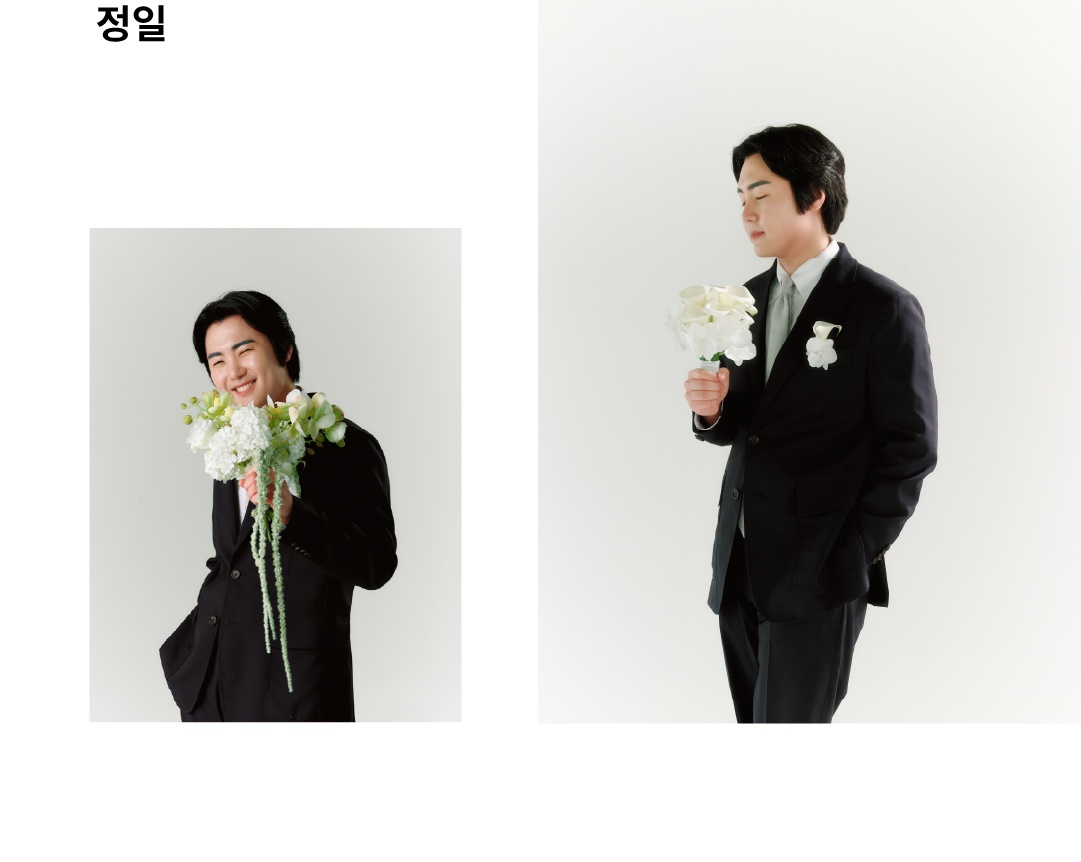
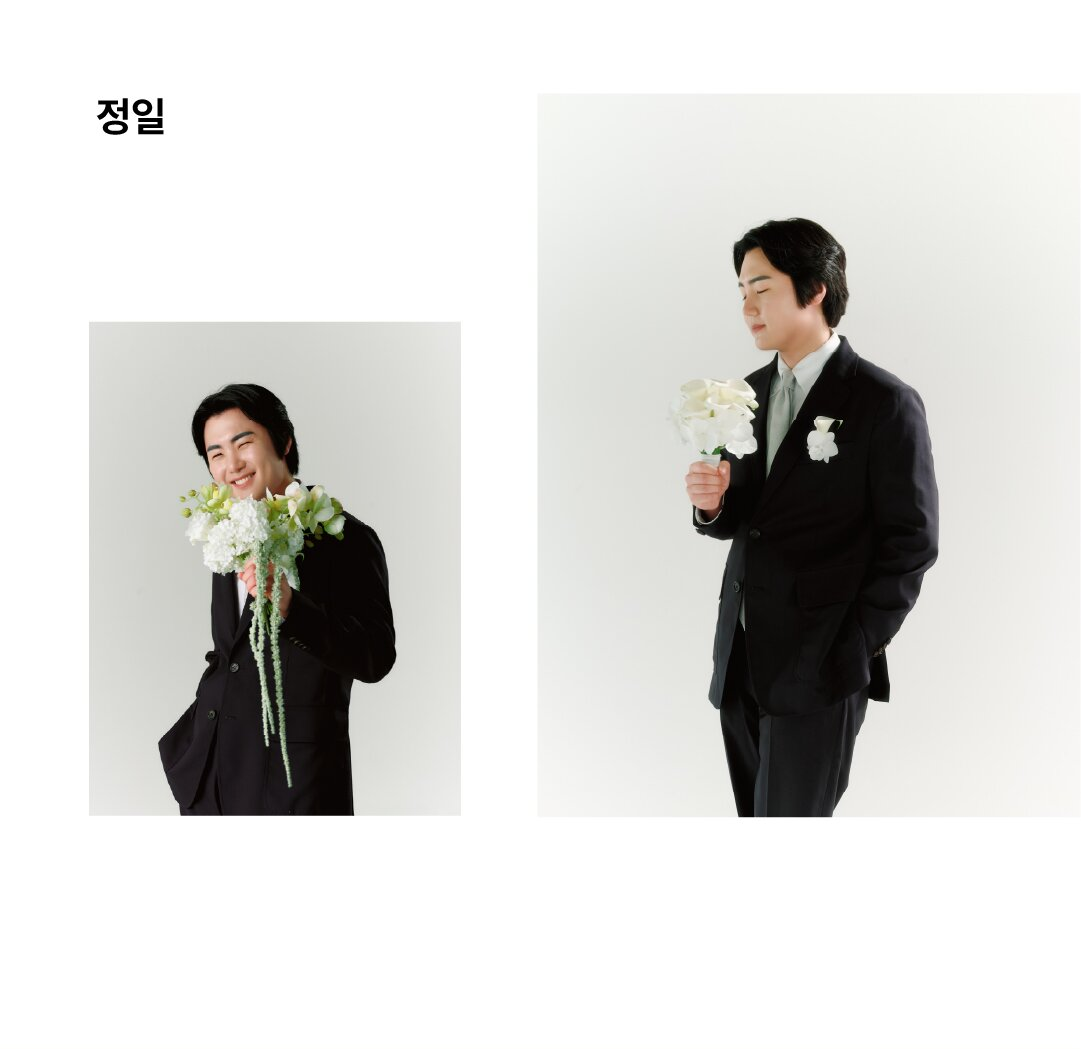
Add files via upload

diff --git a/index.html b/index.html
@@ -141,7 +141,7 @@
   }
 
   .view-details .chevron {
-    font-size: 14px;
+    font-size: 28px;
     animation: bounce 1.6s infinite;
   }
 
@@ -315,21 +315,26 @@
 
   /* ---------- Wedding film ---------- */
   .film-section {
-    padding: 40px 28px;
+    padding: 0;
     background: var(--cream);
   }
 
-  .film-section h3 {
-    text-align: center;
-    font-size: 15px;
-    letter-spacing: 2px;
-    margin-bottom: 18px;
-    color: var(--ink);
+  .film-bg-wrap {
+    position: relative;
+    width: 100%;
+  }
+
+  .film-bg {
+    display: block;
+    width: 100%;
+    height: auto;
   }
 
   .film-wrap {
-    position: relative;
-    width: 100%;
+    position: absolute;
+    left: 28px;
+    right: 28px;
+    top: 21%;
     padding-top: 56.25%; /* 16:9 가로 영상 기준. 세로 영상이면 177.77%로 변경 */
     background: #e5dcd6;
     border-radius: 4px;
@@ -470,8 +475,7 @@
     ></video>
     <div class="cover-hint" id="coverHint">tap or swipe up</div>
     <div class="cover-scroll">
-      <button class="view-details" id="viewDetailsBtn">
-        View Details
+      <button class="view-details" id="viewDetailsBtn" aria-label="View Details">
         <span class="chevron">⌄</span>
       </button>
     </div>
@@ -491,8 +495,8 @@
   <section class="img-section">
     <div class="flat-photo-wrap">
       <img src="images/intro-jungil-flat.jpg" alt="정일">
-      <div class="lightbox-trigger" data-photo="images/intro-jungil-1.jpg" style="left:8.23%; top:26.45%; width:34.42%; height:57.31%;"></div>
-      <div class="lightbox-trigger" data-photo="images/intro-jungil-2.jpg" style="left:49.77%; top:0%; width:50.14%; height:83.87%;"></div>
+      <div class="lightbox-trigger" data-photo="images/intro-jungil-1.jpg" style="left:8.23%; top:30.60%; width:34.42%; height:47.19%;"></div>
+      <div class="lightbox-trigger" data-photo="images/intro-jungil-2.jpg" style="left:49.77%; top:8.96%; width:50.14%; height:69.02%;"></div>
     </div>
   </section>
 
@@ -505,8 +509,8 @@
   <section class="img-section">
     <div class="flat-photo-wrap">
       <img src="images/intro-soyeon-flat.jpg" alt="소연">
-      <div class="lightbox-trigger" data-photo="images/intro-soyeon-1.jpg" style="left:8.23%; top:26.59%; width:34.42%; height:57.11%;"></div>
-      <div class="lightbox-trigger" data-photo="images/intro-soyeon-2.jpg" style="left:49.77%; top:0%; width:50.14%; height:83.70%;"></div>
+      <div class="lightbox-trigger" data-photo="images/intro-soyeon-1.jpg" style="left:8.23%; top:30.73%; width:34.42%; height:47.10%;"></div>
+      <div class="lightbox-trigger" data-photo="images/intro-soyeon-2.jpg" style="left:49.68%; top:8.85%; width:50.32%; height:68.98%;"></div>
     </div>
   </section>
 
@@ -520,9 +524,11 @@
 
   <!-- Wedding Film -->
   <section class="film-section">
-    <h3>Wedding Film</h3>
-    <div class="film-wrap">
-      <iframe src="https://www.youtube.com/embed/MW7IBp1zAWA" title="Wedding Film" allow="accelerometer; autoplay; clipboard-write; encrypted-media; gyroscope; picture-in-picture" allowfullscreen></iframe>
+    <div class="film-bg-wrap">
+      <img class="film-bg" src="images/film-bg.jpg" alt="Wedding Film">
+      <div class="film-wrap">
+        <iframe src="https://www.youtube.com/embed/MW7IBp1zAWA" title="Wedding Film" allow="accelerometer; autoplay; clipboard-write; encrypted-media; gyroscope; picture-in-picture" allowfullscreen></iframe>
+      </div>
     </div>
   </section>
 
@@ -733,8 +739,40 @@ document.getElementById('viewDetailsBtn').addEventListener('click', function(e) 
   var closeBtn = document.getElementById('lightboxClose');
   var imgs = document.querySelectorAll('.lightbox-img');
 
+  var MIN_SCALE = 1;
+  var MAX_SCALE = 2;      // pinch / double-tap zoom ceiling
+  var TAP_ZOOM = 1.8;     // scale applied on double-tap
+  var scale = 1, panX = 0, panY = 0;
+
+  function clampPan() {
+    var w = overlayImg.offsetWidth * scale;
+    var h = overlayImg.offsetHeight * scale;
+    var maxPanX = Math.max(0, (w - window.innerWidth) / 2);
+    var maxPanY = Math.max(0, (h - window.innerHeight) / 2);
+    panX = Math.max(-maxPanX, Math.min(maxPanX, panX));
+    panY = Math.max(-maxPanY, Math.min(maxPanY, panY));
+  }
+
+  function applyTransform(withTransition) {
+    if (scale === 1 && panX === 0 && panY === 0) {
+      // back to the default state - let the CSS classes (open/closing) drive
+      // the transform so the entrance/exit animation stays untouched.
+      overlayImg.style.transition = '';
+      overlayImg.style.transform = '';
+      return;
+    }
+    overlayImg.style.transition = withTransition ? 'transform 0.25s ease' : 'none';
+    overlayImg.style.transform = 'translate(' + panX + 'px,' + panY + 'px) scale(' + scale + ')';
+  }
+
+  function resetZoom(withTransition) {
+    scale = 1; panX = 0; panY = 0;
+    applyTransform(withTransition);
+  }
+
   function openLightbox(src) {
     overlayImg.src = src;
+    resetZoom(false);
     overlay.classList.remove('closing');
     overlay.classList.add('open');
     closeBtn.classList.add('open');
@@ -748,6 +786,7 @@ document.getElementById('viewDetailsBtn').addEventListener('click', function(e) 
     document.body.style.overflow = '';
     setTimeout(function () {
       overlay.classList.remove('closing');
+      resetZoom(false);
     }, 240);
   }
 
@@ -764,23 +803,97 @@ document.getElementById('viewDetailsBtn').addEventListener('click', function(e) 
     });
   });
 
-  overlay.addEventListener('click', closeLightbox);
+  overlay.addEventListener('click', function () {
+    if (scale > 1.01) return; // tapping the backdrop while zoomed shouldn't close
+    closeLightbox();
+  });
   closeBtn.addEventListener('click', closeLightbox);
 
-  /* swipe down to dismiss */
-  var startY = 0;
+  /* Touch: 1-finger swipe-down to dismiss (at scale 1) or pan (when zoomed),
+     2-finger pinch to zoom, double-tap to toggle zoom in/out. */
+  var startY = 0, startX = 0;
+  var dragging = false;
+  var pinching = false;
+  var pinchStartDist = 1;
+  var pinchStartScale = 1;
+  var panStartX = 0, panStartY = 0;
+  var lastTapTime = 0;
+
+  function touchDist(t0, t1) {
+    var dx = t0.clientX - t1.clientX;
+    var dy = t0.clientY - t1.clientY;
+    return Math.max(1, Math.sqrt(dx * dx + dy * dy));
+  }
+
   overlay.addEventListener('touchstart', function (e) {
-    startY = e.touches[0].clientY;
+    if (e.touches.length === 2) {
+      pinching = true;
+      dragging = false;
+      pinchStartDist = touchDist(e.touches[0], e.touches[1]);
+      pinchStartScale = scale;
+      return;
+    }
+    if (e.touches.length === 1) {
+      pinching = false;
+      dragging = true;
+      startY = e.touches[0].clientY;
+      startX = e.touches[0].clientX;
+      panStartX = panX;
+      panStartY = panY;
+
+      var now = Date.now();
+      if (now - lastTapTime < 300) {
+        lastTapTime = 0;
+        dragging = false;
+        if (scale > 1.01) {
+          resetZoom(true);
+        } else {
+          scale = TAP_ZOOM;
+          panX = 0; panY = 0;
+          applyTransform(true);
+        }
+      } else {
+        lastTapTime = now;
+      }
+    }
   });
+
   overlay.addEventListener('touchmove', function (e) {
+    if (pinching && e.touches.length === 2) {
+      e.preventDefault();
+      var d = touchDist(e.touches[0], e.touches[1]);
+      scale = Math.max(MIN_SCALE, Math.min(MAX_SCALE, pinchStartScale * (d / pinchStartDist)));
+      clampPan();
+      applyTransform(false);
+      return;
+    }
+    if (!dragging || e.touches.length !== 1) return;
+    var dx = e.touches[0].clientX - startX;
     var dy = e.touches[0].clientY - startY;
-    if (dy > 0) {
+
+    if (scale > 1.01) {
+      panX = panStartX + dx;
+      panY = panStartY + dy;
+      clampPan();
+      applyTransform(false);
+    } else if (dy > 0) {
+      overlayImg.style.transition = 'none';
       overlayImg.style.transform = 'translateY(' + dy + 'px) scale(' + Math.max(0.85, 1 - dy / 1000) + ')';
     }
   });
+
   overlay.addEventListener('touchend', function (e) {
+    if (pinching) {
+      pinching = false;
+      if (scale < 1.02) resetZoom(true);
+      return;
+    }
+    if (!dragging) return;
+    dragging = false;
+    if (scale > 1.01) return; // was panning a zoomed image, nothing more to do
+
     var dy = e.changedTouches[0].clientY - startY;
-    overlayImg.style.transform = '';
+    applyTransform(true);
     if (dy > 80) {
       closeLightbox();
     }
